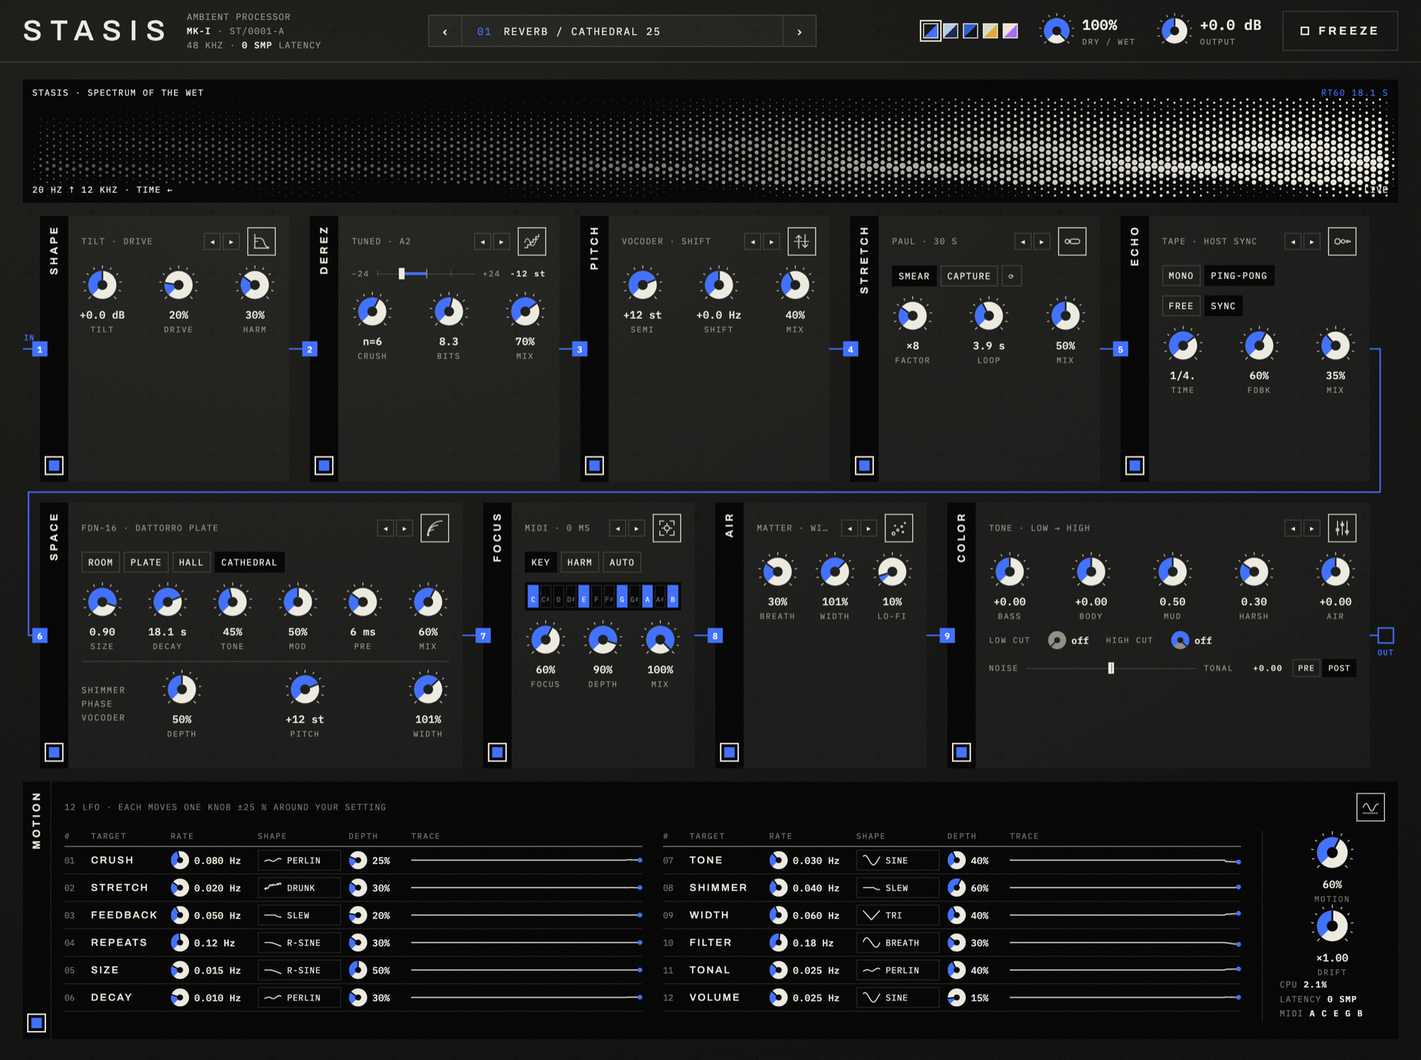
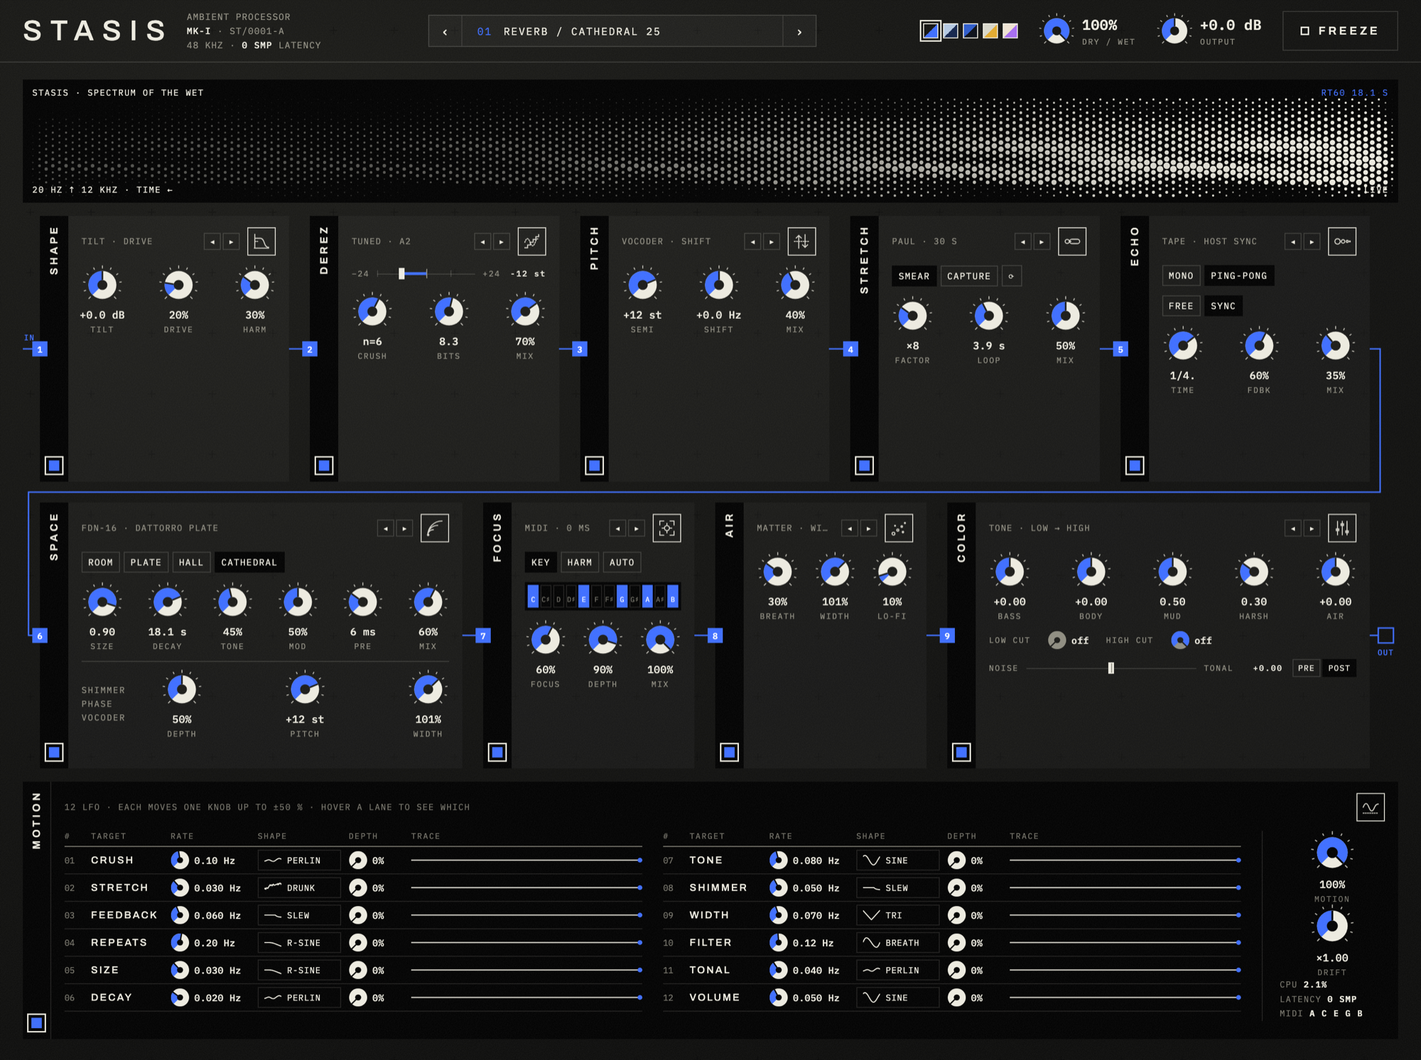
Fix STRETCH echo, idle modules cost nothing, visible MOTION
- CaptureStretch: the phase stage tested the stage index instead of the
  step, so bins below fs/4 kept their phases and every frame replayed the
  input (an echo). Click test added to --analyse (crest 121 -> 8)
- Engine: FOCUS key detection only while FOCUS is on; MOTION and every
  lane at depth 0 do no work
- MOTION: ±50 % range, all lanes at depth 0 by default; modulated knobs
  show an arc and a dot, hovering a lane outlines its target

diff --git a/design/mockup.html b/design/mockup.html
@@ -205,6 +205,8 @@ header { display: grid; grid-template-columns: auto 1fr auto; align-items: cente
 .cursor .fill { position: absolute; top: calc(50% - 1.5px); height: 3px; background: var(--accent); }
 .cursor .thumb { position: absolute; top: 3px; width: 6px; height: 12px; margin-left: -3px; background: currentColor; color: var(--ink); }
 .cursor .val { color: var(--ink); font-weight: 500; text-align: right; }
+.cursor .ghost { display: none; position: absolute; top: 5px; width: 4px; height: 8px; margin-left: -2px; background: var(--spark); }
+.knob.mod-focus svg, .cursor.mod-focus { outline: 1px dashed var(--spark); outline-offset: 3px; }
 .pitch-cursor { grid-template-columns: auto 1fr auto 40px; }
 .pitch-cursor .track { background: repeating-linear-gradient(90deg, var(--line) 0 1px, transparent 1px calc(100% / 4)) center / 100% 7px no-repeat; }  /* ticks every octave */
 
@@ -352,7 +354,7 @@ const bridge = {
     document.documentElement.classList.add('plugin');
     for (const id of this.controls.keys()) this.listen(id);
     window.__JUCE__.backend.addEventListener('stasis_spectrum', bands => { live.spectrum = bands; });
-    window.__JUCE__.backend.addEventListener('stasis_motion', values => { live.lanes = values; });
+    window.__JUCE__.backend.addEventListener('stasis_motion', m => { live.lanes = m.lanes; live.targets = m.targets; });
     window.__JUCE__.backend.addEventListener('stasis_status', s => live.status(s));
   },
 };
@@ -369,6 +371,7 @@ const live = {
   },
 };
 
+const knobsById = {};  // id → knob element, for MOTION's markers
 function knob(k, opts = {}) {
   const small = !!opts.small;
   const el = document.createElement('div');
@@ -380,6 +383,8 @@ function knob(k, opts = {}) {
       <path class="sec" fill="var(--accent)"/>
       <circle cx="22" cy="22" r="${small ? 7 : 5.5}" fill="var(--hub)"/>
       <line class="idx" stroke="var(--hub)" stroke-width="${small ? 3 : 1.8}" stroke-linecap="square"/>
+      <path class="modarc" fill="none" stroke="var(--spark)" stroke-width="2" display="none"/>
+      <circle class="moddot" r="2.4" fill="var(--spark)" display="none"/>
     </svg><div class="v"></div><div class="l">${k.l}</div>`;
   let t = k.t;
   const draw = () => {
@@ -399,6 +404,18 @@ function knob(k, opts = {}) {
   el.addEventListener('pointerup', () => { if (k.id) bridge.drag(k.id, false); });
   el.addEventListener('dblclick', () => change(k.t));
   if (k.id) { t = bridge.value(k.id, k.t); bridge.register(k.id, 'slider', v => { t = v; draw(); k.on && k.on(t); }); }
+  // MOTION: an arc from where the knob is set to where the LFO has moved it, and a dot.
+  const ring = r + 4.5, arc = el.querySelector('.modarc'), dot = el.querySelector('.moddot');
+  el.value = () => t;
+  el.showMod = m => {
+    if (m === null) { arc.setAttribute('display', 'none'); dot.setAttribute('display', 'none'); return; }
+    const a = A0 + ARC * Math.min(t, m), b = A0 + ARC * Math.max(t, m);
+    const [x0, y0] = polar(ring, a), [x1, y1] = polar(ring, b), [dx, dy] = polar(ring, A0 + ARC * m);
+    arc.setAttribute('d', `M${x0.toFixed(2)} ${y0.toFixed(2)}A${ring} ${ring} 0 ${b - a > 180 ? 1 : 0} 1 ${x1.toFixed(2)} ${y1.toFixed(2)}`);
+    dot.setAttribute('cx', dx.toFixed(2)); dot.setAttribute('cy', dy.toFixed(2));
+    arc.setAttribute('display', ''); dot.setAttribute('display', '');
+  };
+  if (k.id) knobsById[k.id] = el;
   draw();
   return el;
 }
@@ -443,6 +460,11 @@ function cursor(left, right, value, id, opts = {}) {
   track.addEventListener('pointerup', () => { if (id) bridge.drag(id, false); });
   track.addEventListener('dblclick', () => { v = 0; draw(); send(); });
   if (id) bridge.register(id, 'slider', t => { v = t * 2 - 1; draw(); });
+  // MOTION: a ghost thumb where the LFO has moved the cursor.
+  const ghost = document.createElement('div'); ghost.className = 'ghost'; track.append(ghost);
+  el.value = () => (v + 1) / 2;
+  el.showMod = m => { ghost.style.display = m === null ? 'none' : 'block'; if (m !== null) ghost.style.left = (m * 100) + '%'; };
+  if (id) knobsById[id] = el;
   draw();
   return el;
 }
@@ -532,7 +554,7 @@ const MODS = {
             sub.append(knobRow([{ id: 'shimmer_depth', l: 'Depth', t: state.shimmer, f: pct, on: v => state.shimmer = v }, { id: 'shimmer_pitch', l: 'Pitch', t: .75, f: bip(' st', 24) },
                                 { id: 'space_width', l: 'Width', t: .67, f: t => Math.round(150 * t) + '%' }]));
             b.append(sub); } },
-  motion: { n: '10', name: 'MOTION',  code: '12 LFO · each moves one knob ±25 % around your setting', build: b => buildMotion(b) },
+  motion: { n: '10', name: 'MOTION',  code: '12 LFO · each moves one knob up to ±50 % · hover a lane to see which', build: b => buildMotion(b) },
 };
 
 function buildCard(el) {
@@ -677,9 +699,12 @@ function shapeIcon(i) {
   return `<svg viewBox="0 0 18 12"><polyline points="${pts.map(p => p.join(',')).join(' ')}" fill="none" stroke="currentColor" stroke-width="1.1"/></svg>`;
 }
 // Same lanes as Params.h (kLanes): target label, shape, rate (Hz), depth.
-const LANES = [['CRUSH', 9, .08, .25], ['STRETCH', 8, .02, .3], ['FEEDBACK', 6, .05, .2], ['REPEATS', 7, .12, .3], ['SIZE', 7, .015, .5], ['DECAY', 9, .01, .3],
-               ['TONE', 0, .03, .4], ['SHIMMER', 6, .04, .6], ['WIDTH', 1, .06, .4], ['FILTER', 11, .18, .3], ['TONAL', 9, .025, .4], ['VOLUME', 0, .025, .15]];
+const LANES = [['CRUSH', 9, .10, 0], ['STRETCH', 8, .03, 0], ['FEEDBACK', 6, .06, 0], ['REPEATS', 7, .20, 0], ['SIZE', 7, .03, 0], ['DECAY', 9, .02, 0],
+               ['TONE', 0, .08, 0], ['SHIMMER', 6, .05, 0], ['WIDTH', 1, .07, 0], ['FILTER', 11, .12, 0], ['TONAL', 9, .04, 0], ['VOLUME', 0, .05, 0]];
 const laneId = (i, what) => `m${String(i + 1).padStart(2, '0')}_${what}`;
+const LANE_TARGETS = ['derez_crush', 'stretch_factor', 'echo_fdbk', 'echo_mix', 'space_size', 'space_decay', 'space_tone', 'shimmer_depth', 'space_width', 'color_lpf', 'tonal', 'out'];
+// Hovering a lane outlines the knob it moves.
+const focusTarget = (i, on) => knobsById[LANE_TARGETS[i]]?.classList.toggle('mod-focus', on);
 const lanes = [];
 const rateLabel = t => { const hz = .001 * Math.pow(20000, t); return (hz < 1 ? hz.toFixed(hz < .1 ? 3 : 2) : hz.toFixed(1)) + ' Hz'; };
 function buildMotion(b) {
@@ -693,6 +718,8 @@ function buildMotion(b) {
       const lane = { shape, rate, depth, f: lfoFactory(idx + 1), hist: new Array(170).fill(0) };
       const row = document.createElement('div'); row.className = 'lane cols';
       row.innerHTML = `<span class="i">${String(idx + 1).padStart(2, '0')}</span><span class="n">${name}</span>`;
+      row.onmouseenter = () => focusTarget(idx, true);
+      row.onmouseleave = () => focusTarget(idx, false);
       row.append(knob({ id: laneId(idx, 'rate'), l: 'rate', t: Math.log(rate / .001) / Math.log(20000), f: rateLabel, on: t => lane.rate = .001 * Math.pow(20000, t) }, { small: true }));
       const sh = document.createElement('div'); sh.className = 'shape'; sh.title = 'Clic : forme suivante';
       const paint = () => sh.innerHTML = shapeIcon(lane.shape) + SHAPES[lane.shape];
@@ -705,7 +732,7 @@ function buildMotion(b) {
     wrap.append(list); body.append(wrap);
   }
   const macros = document.createElement('div'); macros.className = 'macros';
-  macros.append(knob({ id: 'motion_amount', l: 'Motion', t: .6, f: pct, on: t => state.motion = t }, { stack: true }),
+  macros.append(knob({ id: 'motion_amount', l: 'Motion', t: 1, f: pct, on: t => state.motion = t }, { stack: true }),
                 knob({ id: 'motion_drift', l: 'Drift', t: .5, f: t => '×' + Math.pow(4, t * 2 - 1).toFixed(2), on: t => state.drift = Math.pow(4, t * 2 - 1) }, { stack: true }));
   const st = document.createElement('div'); st.className = 'status';
   st.id = 'status';
@@ -904,6 +931,15 @@ function drawLanes() {
     l.hist.forEach((y, i) => { const px = i / (l.hist.length - 1) * w, py = h / 2 - y * (h / 2 - 2); i ? ctx.lineTo(px, py) : ctx.moveTo(px, py); });
     ctx.stroke(); ctx.globalAlpha = 1;
     ctx.fillStyle = acc; ctx.beginPath(); ctx.arc(w - 2.5, h / 2 - v * (h / 2 - 2), 2.5, 0, Math.PI * 2); ctx.fill();
+  });
+  // Show on each target knob where MOTION has moved it (plugin: the engine's own value).
+  const on = !document.querySelector('[data-mod="motion"]').classList.contains('off');
+  LANE_TARGETS.forEach((id, i) => {
+    const k = knobsById[id]; if (!k) return;
+    if (!on) return k.showMod(null);
+    const m = live.targets ? live.targets[i]
+      : Math.max(0, Math.min(1, k.value() + .5 * state.motion * lanes[i].depth * lanes[i].f(lanes[i].shape, 0)));
+    k.showMod(Math.abs(m - k.value()) < .004 ? null : m);
   });
 }
 

diff --git a/plugin/Source/Engine.h b/plugin/Source/Engine.h
@@ -114,6 +114,8 @@ public:
 
     // The 12 MOTION lanes, -1..1 (for the UI traces).
     float laneValue(int lane) const { return laneValues_[size_t(lane)].load(std::memory_order_relaxed); }
+    // Where each lane has moved its target knob right now (0..1), for the UI.
+    float laneTarget(int lane) const { return laneTargets_[size_t(lane)].load(std::memory_order_relaxed); }
 
     // Pitch classes FOCUS is following (MIDI, or what AUTO hears). Bit n = class n.
     uint16_t focusClasses() const { return focusClasses_.load(std::memory_order_relaxed); }
@@ -124,22 +126,33 @@ private:
     float v(const float* values, int index) const { return values[index]; }
 
     // MOTION: each lane moves its target parameter around the user's setting, at most
-    // ±25 % of the knob's travel (depth 100 %, MOTION 100 %).
+    // ±50 % of the knob's travel (depth 100 %, MOTION 100 %).
     const float* modulate(const float* values, int n) {
         static const int iOn = params::indexOf("motion_on"), iAmount = params::indexOf("motion_amount"), iDrift = params::indexOf("motion_drift");
-        std::copy(values, values + modulated_.size(), modulated_.begin());
         const bool on = values[iOn] > 0.5f;
+        if (!on) {  // MOTION off: nothing runs, the parameters pass as they are
+            if (motionWasOn_) for (auto& v : laneValues_) v.store(0.0f, std::memory_order_relaxed);
+            motionWasOn_ = false;
+            return values;
+        }
+        motionWasOn_ = true;
+        std::copy(values, values + modulated_.size(), modulated_.begin());
         const float amount = values[iAmount], drift = params::driftScale(values[iDrift]);
         for (size_t i = 0; i < lanes_.size(); ++i) {
+            const float depth = values[laneDepth_[i]];
+            if (depth <= 0.0f) {  // a lane at 0 % does not run
+                laneValues_[i].store(0.0f, std::memory_order_relaxed);
+                continue;
+            }
             Lfo& lfo = lanes_[i];
             lfo.setRate(params::laneRateHz(values[laneRate_[i]]) * drift);
             lfo.setShape(values[laneShape_[i]]);
             const float x = lfo.advance(n);
-            laneValues_[i].store(on ? x : 0.0f, std::memory_order_relaxed);
-            if (!on) continue;
+            laneValues_[i].store(x, std::memory_order_relaxed);
             float& target = modulated_[size_t(laneTarget_[i])];
-            target = std::clamp(target + 0.25f * amount * values[laneDepth_[i]] * x, 0.0f, 1.0f);
+            target = std::clamp(target + 0.5f * amount * depth * x, 0.0f, 1.0f);
         }
+        for (size_t i = 0; i < lanes_.size(); ++i) laneTargets_[i].store(modulated_[size_t(laneTarget_[i])], std::memory_order_relaxed);
         return modulated_.data();
     }
 
@@ -362,7 +375,10 @@ private:
         std::copy(left, left + n, wetL);
         std::copy(right, right + n, wetR);
 
-        if (focusAuto_) {
+        // FOCUS listens only while it is on (the key detector is an FFT every 1024 samples).
+        if (!on_[kFocus]) {
+            focusClasses_.store(0, std::memory_order_relaxed);
+        } else if (focusAuto_) {
             keys_.analyse(left, right, n);
             focus_.setScale(keys_.pitchClasses());
             focusClasses_.store(keys_.pitchClasses(), std::memory_order_relaxed);
@@ -469,8 +485,9 @@ private:
     std::atomic<uint64_t> order_{defaultOrder()};
     std::array<Lfo, 12> lanes_;
     std::array<int, 12> laneTarget_{}, laneRate_{}, laneShape_{}, laneDepth_{};
-    std::array<std::atomic<float>, 12> laneValues_{};
+    std::array<std::atomic<float>, 12> laneValues_{}, laneTargets_{};
     std::vector<float> modulated_;
+    bool motionWasOn_ = false;
 };
 
 }  // namespace stasis

diff --git a/plugin/Source/Params.h b/plugin/Source/Params.h
@@ -58,7 +58,8 @@ inline const std::array<const char*, 14> kDivisionNames = {"1/32", "1/16T", "1/1
 inline const std::array<const char*, 9> kModules = {"shape", "derez", "pitch", "stretch", "echo", "space", "focus", "air", "color"};
 
 // MOTION: 12 LFO lanes, each wired to one parameter. At full depth (and MOTION 100 %)
-// a lane moves its knob ±25 % of its travel around where the user left it.
+// a lane moves its knob ±50 % of its travel around where the user left it. Every lane
+// starts at depth 0: it does nothing (and costs nothing) until the user raises it.
 struct Lane {
     const char* target;  // parameter id
     const char* label;
@@ -66,12 +67,12 @@ struct Lane {
     float rateHz, depth;
 };
 inline const std::array<Lane, 12> kLanes = {{
-    {"derez_crush", "CRUSH", 9, 0.08f, 0.25f},     {"stretch_factor", "STRETCH", 8, 0.02f, 0.3f},
-    {"echo_fdbk", "FEEDBACK", 6, 0.05f, 0.2f},     {"echo_mix", "REPEATS", 7, 0.12f, 0.3f},
-    {"space_size", "SIZE", 7, 0.015f, 0.5f},       {"space_decay", "DECAY", 9, 0.01f, 0.3f},
-    {"space_tone", "TONE", 0, 0.03f, 0.4f},        {"shimmer_depth", "SHIMMER", 6, 0.04f, 0.6f},
-    {"space_width", "WIDTH", 1, 0.06f, 0.4f},      {"color_lpf", "FILTER", 11, 0.18f, 0.3f},
-    {"tonal", "TONAL", 9, 0.025f, 0.4f},           {"out", "VOLUME", 0, 0.025f, 0.15f},
+    {"derez_crush", "CRUSH", 9, 0.10f, 0.0f},      {"stretch_factor", "STRETCH", 8, 0.03f, 0.0f},
+    {"echo_fdbk", "FEEDBACK", 6, 0.06f, 0.0f},     {"echo_mix", "REPEATS", 7, 0.20f, 0.0f},
+    {"space_size", "SIZE", 7, 0.03f, 0.0f},        {"space_decay", "DECAY", 9, 0.02f, 0.0f},
+    {"space_tone", "TONE", 0, 0.08f, 0.0f},        {"shimmer_depth", "SHIMMER", 6, 0.05f, 0.0f},
+    {"space_width", "WIDTH", 1, 0.07f, 0.0f},      {"color_lpf", "FILTER", 11, 0.12f, 0.0f},
+    {"tonal", "TONAL", 9, 0.04f, 0.0f},            {"out", "VOLUME", 0, 0.05f, 0.0f},
 }};
 inline const std::array<const char*, 12> kShapeNames = {"SINE", "TRI", "SAW+", "SAW-", "SQUARE", "S&H", "SLEW", "R-SINE", "DRUNK", "PERLIN", "CHAOS", "BREATH"};
 inline float laneRateHz(float t) { return 0.001f * std::pow(20000.0f, t); }  // 0.001 .. 20 Hz
@@ -153,7 +154,7 @@ inline const std::vector<Spec>& all() {
         {"tonal_place", "Tonal Place", Kind::Choice, 1.0f, {"Pre space", "Post space"}},
         // MOTION
         {"motion_on", "Motion On", Kind::Bool, 1.0f},
-        {"motion_amount", "Motion Amount", Kind::Float, 0.6f, {}, pct},
+        {"motion_amount", "Motion Amount", Kind::Float, 1.0f, {}, pct},
         {"motion_drift", "Motion Drift", Kind::Float, 0.5f, {}, [](float t) { return fmt("x%.2f", driftScale(t)); }},
     };
     static const std::vector<Spec> withLanes = [] {

diff --git a/dsp/include/stasis/capture_stretch.h b/dsp/include/stasis/capture_stretch.h
@@ -17,9 +17,10 @@ namespace stasis {
 //  CAPTURE  capture() freezes the last `captureSeconds`; that passage is then
 //           stretched in an endless loop, whatever comes in afterwards.
 //
-// Overlap: 4 frames (hop = window/4). Each frame has its own random phases, so every
-// partial's level changes a little from frame to frame; with 2 frames that flutter is
-// 2.3 dB (a grainy tremolo at ~3 Hz), with 4 it is 0.45 dB: smooth, as in PaulXStretch.
+// Overlap: 4 frames (hop = window/4), so each frame fades in and out over a full
+// window. Every frame has its own random phases (that is PaulStretch: no transients,
+// no echo of the input); a click comes out as a smooth swell of noise (crest factor
+// ~8, see `stasis_render --analyse`).
 //
 // Latency: about a window and a quarter (frames are computed one hop ahead), on the wet
 // path only.
@@ -195,7 +196,7 @@ private:
             }
             case 2:
             case 3: {  // random phases, half of the bins per stage
-                const int from = stage == 2 ? 1 : half / 2, to = stage == 2 ? half / 2 : half;
+                const int from = step == 2 ? 1 : half / 2, to = step == 2 ? half / 2 : half;
                 for (int k = from; k < to; ++k) {
                     // Unpack the two channels from z, keep their magnitudes and their phase
                     // difference (the stereo image), give the pair a new random phase.
@@ -209,7 +210,7 @@ private:
                     spec_[size_t(k)] = newL + Fft::Complex(0.0f, 1.0f) * newR;
                     spec_[size_t(size_ - k)] = std::conj(newL) + Fft::Complex(0.0f, 1.0f) * std::conj(newR);
                 }
-                if (stage == 3) spec_[0] = spec_[size_t(half)] = 0.0f;
+                if (step == 3) spec_[0] = spec_[size_t(half)] = 0.0f;
                 break;
             }
             case 5: {  // overlap-add; the first hop is the next output

diff --git a/tools/render/main.cpp b/tools/render/main.cpp
@@ -779,6 +779,29 @@ void analyseTonal(float fs) {
     }
 }
 
+// STRETCH must turn a click into a smooth swell of noise, never into repeated clicks
+// (a frame that keeps its original phases replays the input: an echo).
+void analyseStretch(float fs) {
+    CaptureStretch cs;
+    cs.prepare(fs);
+    cs.setParams({CaptureStretch::Mode::Smear, 2.0f, 4.0f});
+    const int total = int(6.0f * fs);
+    std::vector<float> out(static_cast<size_t>(total)), in(kBlock), l(kBlock), r(kBlock);
+    for (int n = 0; n < total; n += kBlock) {
+        for (int i = 0; i < kBlock; ++i) in[size_t(i)] = n + i == int(fs) ? 1.0f : 0.0f;
+        cs.process(in.data(), in.data(), l.data(), r.data(), kBlock);
+        std::copy(l.begin(), l.end(), out.begin() + n);
+    }
+    double sum = 0.0;
+    float peak = 0.0f;
+    for (int i = int(2.0f * fs); i < int(4.5f * fs); ++i) {
+        sum += double(out[size_t(i)]) * out[size_t(i)];
+        peak = std::max(peak, std::abs(out[size_t(i)]));
+    }
+    const double rms = std::sqrt(sum / (2.5 * fs));
+    std::printf("\nSTRETCH click test: crest factor %.1f (smooth noise < 12, echoes of the click > 50)\n", peak / rms);
+}
+
 // What the AUTO detector hears over time, against what is really played.
 void analyseKeys(float fs) {
     std::printf("\nAUTO key detection (no MIDI):\n");
@@ -816,6 +839,7 @@ int main(int argc, char** argv) {
             analyseDerez(48000.0f);
             analyseTuning(48000.0f);
             analyseTonal(48000.0f);
+            analyseStretch(48000.0f);
             return 0;
         }
         if (i + 1 < argc && arg == "--input") inputPath = argv[++i];

diff --git a/plugin/Source/PluginEditor.cpp b/plugin/Source/PluginEditor.cpp
@@ -138,9 +138,16 @@ void StasisEditor::resized() { webView_.setBounds(getLocalBounds()); }
 
 void StasisEditor::timerCallback() {
     sendSpectrum();
-    juce::Array<juce::var> lanes;
-    for (int i = 0; i < 12; ++i) lanes.add(processor_.engine.laneValue(i));
-    webView_.emitEventIfBrowserIsVisible("stasis_motion", lanes);
+    // MOTION: each lane's LFO value and where it has moved its knob.
+    juce::Array<juce::var> lanes, targets;
+    for (int i = 0; i < 12; ++i) {
+        lanes.add(processor_.engine.laneValue(i));
+        targets.add(processor_.engine.laneTarget(i));
+    }
+    auto* motion = new juce::DynamicObject();
+    motion->setProperty("lanes", lanes);
+    motion->setProperty("targets", targets);
+    webView_.emitEventIfBrowserIsVisible("stasis_motion", juce::var(motion));
     if (++statusCounter_ % 10 == 0) {
         auto* status = new juce::DynamicObject();
         status->setProperty("cpu", processor_.cpuLoad.load() * 100.0f);

diff --git a/README.md b/README.md
@@ -81,11 +81,11 @@ Inspiré du DeRez d'Airwindows, mais au lieu de changer la hauteur de façon cha
 La fondamentale vient de la note MIDI la plus grave tenue, sinon La2 (110 Hz). Mesure : 100 % de l'énergie reste juste, contre 9 à 77 % pour un DeRez classique.
 
 ### 04 · STRETCH — PaulStretch en temps réel
-Étirement extrême par trames FFT de 32768 points à phases aléatoires, 4 trames superposées : le niveau de chaque note ne varie que de 0,45 dB d'une trame à l'autre (2,3 dB avec 2 trames, ce qui donnait un tremblement granuleux).
+Étirement extrême par trames FFT de 32768 points à phases aléatoires (PaulStretch), 4 trames superposées. Un test vérifie qu'un clic ressort en souffle lisse et jamais en répétitions (`stasis_render --analyse`).
 
 | Contrôle | Effet |
 |---|---|
-| `SMEAR` / `CAPTURE` | SMEAR suit l'entrée en direct, au ralenti. CAPTURE fige les dernières secondes et les étire en boucle |
+| `SMEAR` / `CAPTURE` | SMEAR rejoue l'entrée au ralenti (×8 : une seconde jouée dure huit secondes). CAPTURE fige les dernières secondes et les étire en boucle |
 | `⟳` | Recapture les dernières secondes |
 | `FACTOR` | Étirement ×1 à ×1000 |
 | `LOOP` | Durée capturée (1 à 30 s) |
@@ -144,13 +144,13 @@ Les notes suivies s'allument sur le clavier du module.
 Séparation mesurée : rapport notes/bruit de +7,6 dB en entrée → **+17,1 dB** à fond TONAL, **−1,8 dB** à fond NOISE.
 
 ### 10 · MOTION — 12 LFO qui font respirer le son
-Chaque ligne fait bouger un potard autour de la position choisie, au plus de ±25 % de sa course : CRUSH, STRETCH, FEEDBACK, REPEATS, SIZE, DECAY, TONE, SHIMMER, WIDTH, FILTER, TONAL, VOLUME.
+Chaque ligne fait bouger un potard autour de la position choisie, au plus de ±50 % de sa course : CRUSH, STRETCH, FEEDBACK, REPEATS, SIZE, DECAY, TONE, SHIMMER, WIDTH, FILTER, TONAL, VOLUME.
 
 | Contrôle | Effet |
 |---|---|
 | `RATE` | 0,001 à 20 Hz |
 | Forme | Un clic passe à la suivante : sinus, triangle, scies, carré, S&H, slew, random sine, drunk, Perlin, chaos (Lorenz), breath |
-| `DEPTH` | Amplitude de la ligne |
+| `DEPTH` | Amplitude de la ligne (0 % par défaut : la ligne est inactive) |
 | `MOTION` / `DRIFT` | Profondeur globale, vitesse globale (×0,25 à ×4) |
 
 Les tracés montrent les vraies valeurs des LFO du moteur.

diff --git a/PLAN.md b/PLAN.md
@@ -485,13 +485,17 @@ Règle : **chaque phase se termine par des écoutes et des mesures** (CPU, IR, n
   - COLOR : BASS, BODY, MUD, HARSH, AIR + LOW CUT / HIGH CUT ;
   - MOTION dans le moteur : 12 LFO, cibles CRUSH, STRETCH, FEEDBACK, REPEATS, SIZE, DECAY, TONE, SHIMMER, WIDTH, FILTER, TONAL, VOLUME (±25 % de la course au maximum) ;
   - 30 presets (ECHO / REVERB / AMBIENT), aussi exposés comme programmes VST3 ;
-  - STRETCH à 4 trames superposées (fluctuation 0,45 dB au lieu de 2,3 dB), bouton ⟳ de recapture ;
+  - STRETCH à 4 trames superposées, bouton ⟳ de recapture ;
   - ECHO sans wow ni flutter.
 - **v0.3** :
   - SHAPE (tilt, drive ADAA calé à −12 dBFS, harmoniques paires), PITCH (phase vocoder ±24 st + décaleur de fréquence ±50 Hz, réjection 43–49 dB), AIR (souffle qui suit l'enveloppe, largeur M/S, lo-fi) : tous les modules sont actifs ;
   - DEREZ : curseur en demi-tons au lieu des boutons ;
   - DRY/WET global à 100 % par défaut, grand et étiqueté ;
   - limiteur de sécurité invisible (−0,3 dBFS, attaque instantanée) et garde anti-NaN qui coupe et réinitialise le moteur.
+- **v0.3.1** :
+  - **bug STRETCH corrigé** : depuis le découpage en étapes, la moitié basse du spectre (< 12 kHz) gardait ses phases d'origine, donc chaque trame rejouait l'entrée, ce qui donnait un écho. Test ajouté : un clic doit ressortir en souffle (facteur de crête 8, contre 121 avec le bug). La mesure « 0,45 dB de fluctuation » publiée avant était faussée par ce bug ; avec des phases vraiment aléatoires, le niveau de chaque note fluctue d'environ 4,5 dB, comme dans tout PaulStretch ;
+  - modules éteints = zéro calcul (dont la détection de notes de FOCUS et les LFO de MOTION) ;
+  - MOTION : amplitude ±50 %, toutes les lignes à DEPTH 0 % par défaut (une ligne à 0 ne calcule rien) ; arc et point orange sur chaque potard modulé, survol d'une ligne = potard cible entouré.
 - **Reste à faire** :
   - embarquer les polices (aujourd'hui chargées depuis Google Fonts : sans réseau, l'interface passe sur des polices de secours).
 
